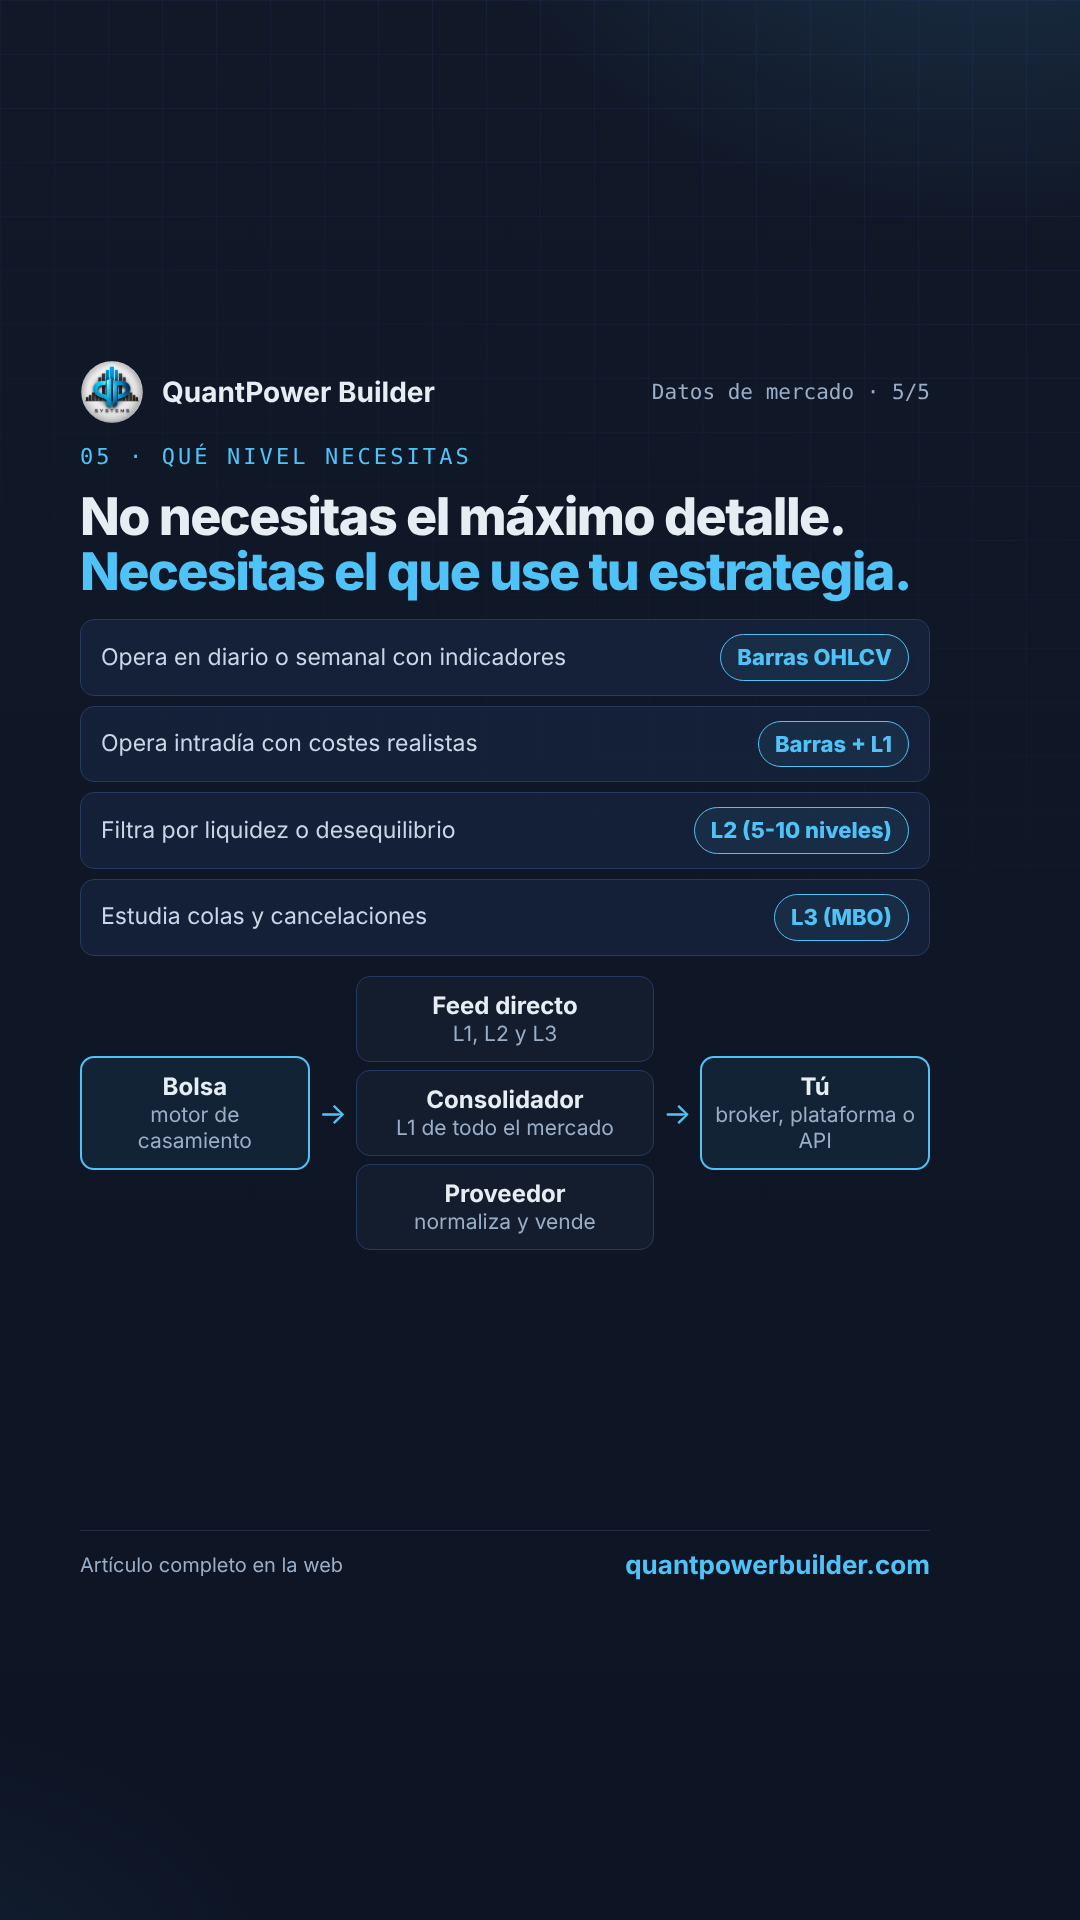
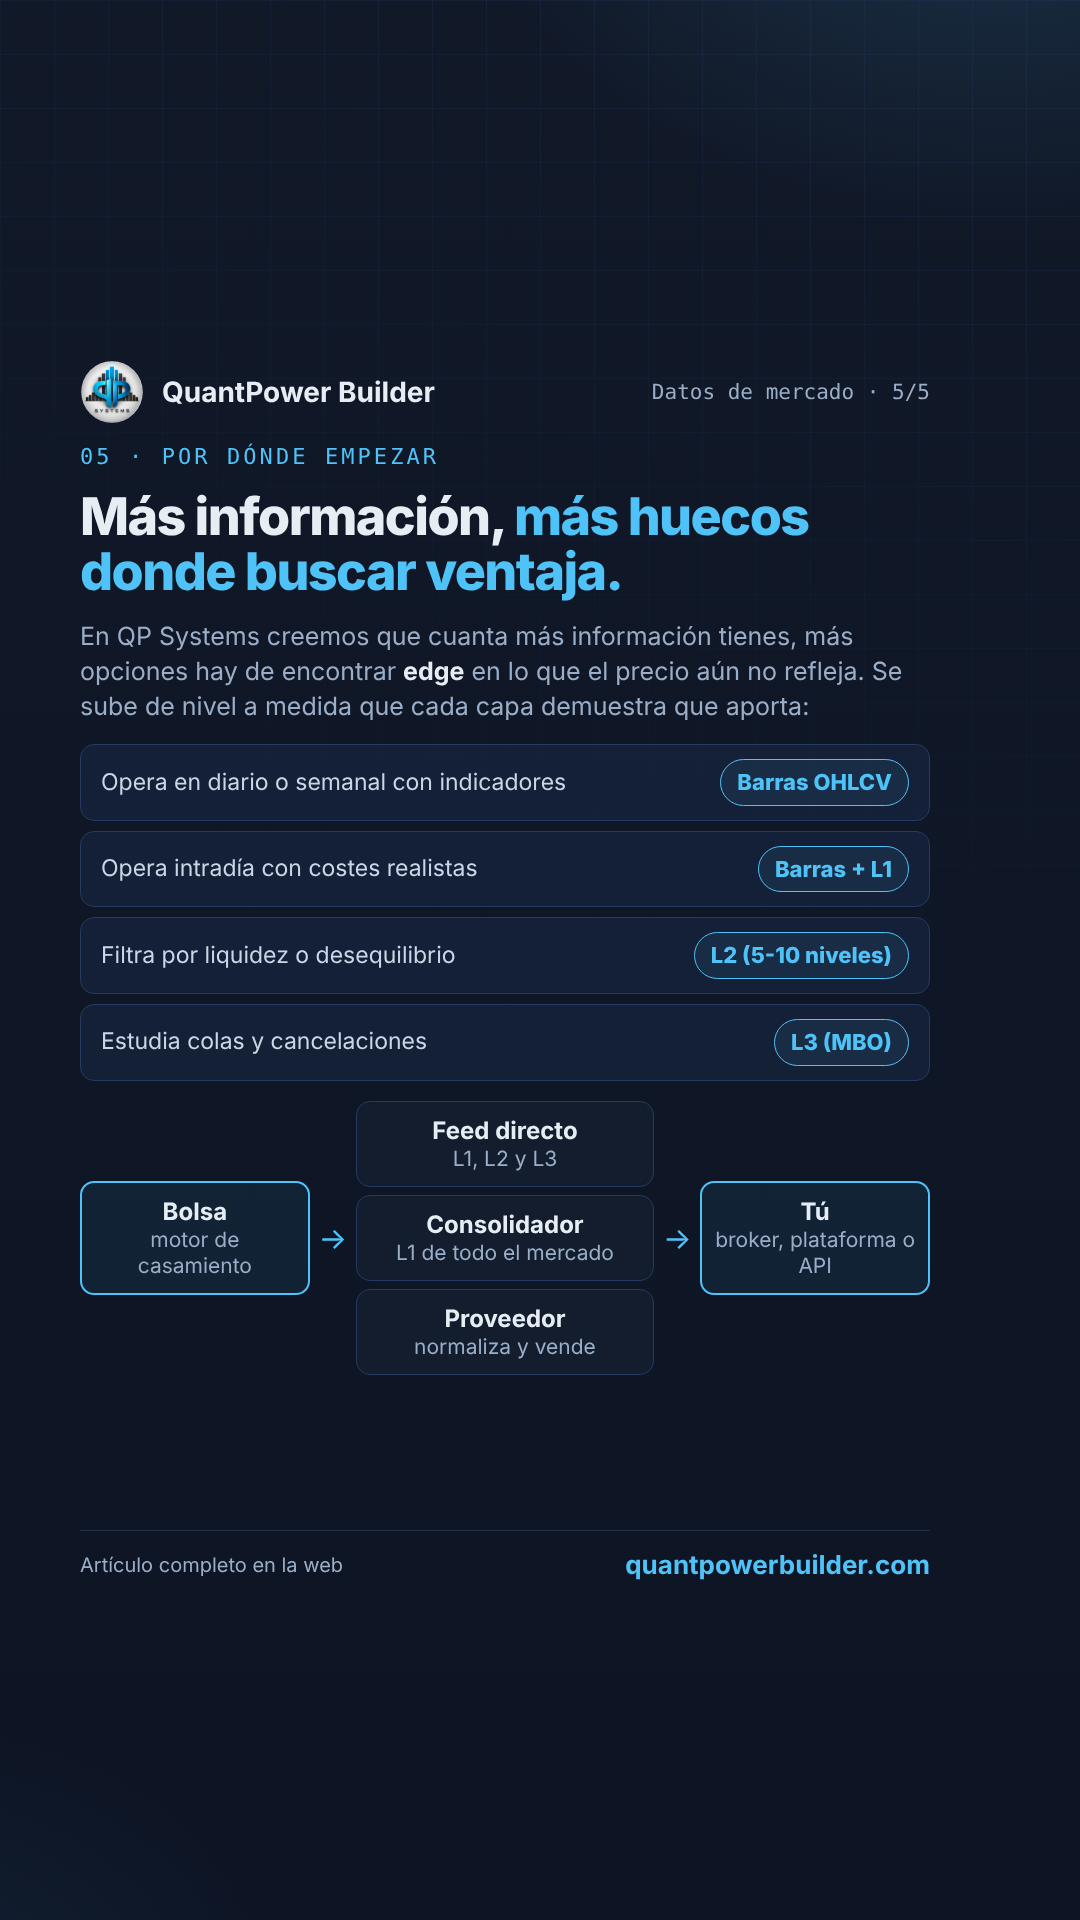
Redes: la publicación 5 recoge la visión de QP Systems sobre información y edge
Claude-Session: https://claude.ai/code/session_01HHLZi1SgtUefWHesdsfYTT

Changed region(s): [[0.0611, 0.2188, 0.8556, 0.7188], [0.6417, 0.5625, 0.7028, 0.6562]]

diff --git a/redes/10-niveles-de-datos/publicacion.html b/redes/10-niveles-de-datos/publicacion.html
@@ -183,8 +183,9 @@
 <section class="slide" data-s="5">
   <div class="grid"></div>
   <div class="top"><div class="logo"></div><strong>QuantPower Builder</strong><span class="count">Datos de mercado · 5/5</span></div>
-  <span class="eyebrow">05 · Qué nivel necesitas</span>
-  <h2>No necesitas el máximo detalle. <span>Necesitas el que use tu estrategia.</span></h2>
+  <span class="eyebrow">05 · Por dónde empezar</span>
+  <h2>Más información, <span>más huecos donde buscar ventaja.</span></h2>
+  <p class="lead">En QP Systems creemos que cuanta más información tienes, más opciones hay de encontrar <b>edge</b> en lo que el precio aún no refleja. Se sube de nivel a medida que cada capa demuestra que aporta:</p>
   <div class="need">
     <div class="row"><span>Opera en diario o semanal con indicadores</span><span>Barras OHLCV</span></div>
     <div class="row"><span>Opera intradía con costes realistas</span><span>Barras + L1</span></div>

diff --git a/redes/10-niveles-de-datos/texto-post.md b/redes/10-niveles-de-datos/texto-post.md
@@ -38,11 +38,11 @@ Hashtags base: #QuantPowerBuilder #orderflow #level2 #trading #datosdemercado
 **Comentario fijado:** Altas, cambios, cancelaciones y ejecuciones de cada orden… y lo que ni así se ve. Te lo contamos en QuantPower Builder 👉 quantpowerbuilder.com/articulos
 #QuantPowerBuilder #level3 #orderflow #microestructura #trading
 
-## 5 · ¿Qué nivel necesitas?
+## 5 · Más información, más huecos donde buscar ventaja
 
-**TikTok (una línea):** ¿L1, L2 o L3? Depende de tu estrategia 🎯 #QuantPowerBuilder
+**TikTok (una línea):** Más información, más huecos donde buscar edge 🎯 #QuantPowerBuilder
 
-**Comentario fijado:** No hace falta el máximo detalle: hace falta el que use tu estrategia. Y de dónde sale cada nivel, en QuantPower Builder 👉 quantpowerbuilder.com/articulos
+**Comentario fijado:** En QP Systems creemos que cuanta más información, más opciones de encontrar ventaja en lo que el precio aún no refleja. Por dónde empezar y cómo subir de nivel, en QuantPower Builder 👉 quantpowerbuilder.com/articulos
 #QuantPowerBuilder #orderflow #level2 #tradingalgoritmico #datosdemercado
 
 ## Instagram, Facebook y LinkedIn (texto común; cambia la primera línea)
@@ -51,7 +51,7 @@ Hashtags base: #QuantPowerBuilder #orderflow #level2 #trading #datosdemercado
 2. Level 1: la foto mínima del mercado, y el matiz que casi nadie cuenta.
 3. Level 2: lo que hay detrás del mejor precio, y lo que no te dice.
 4. Level 3: cada orden y su sitio en la cola.
-5. ¿Qué nivel de datos necesitas de verdad? Depende de tu estrategia.
+5. En QP Systems creemos que cuanta más información tienes, más opciones hay de encontrar edge. Por dónde empezar y cómo subir de nivel.
 
 Lo explicamos con detalle en el artículo «Level 1, Level 2 y Level 3»: qué contiene cada nivel y de dónde sale (bolsas, consolidadores, proveedores y brokers).
 
